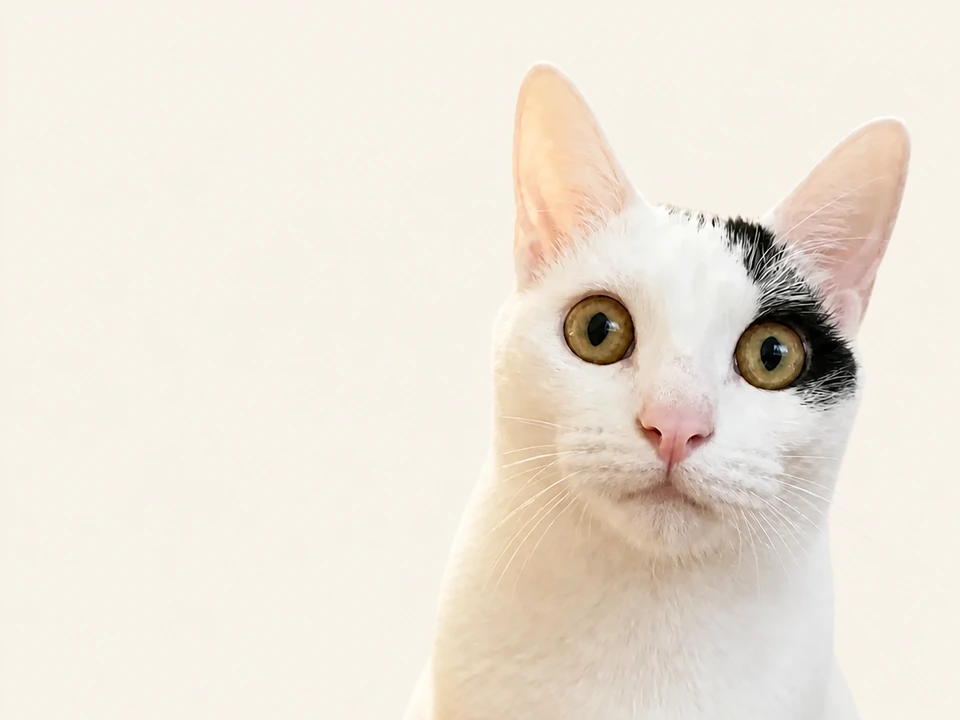
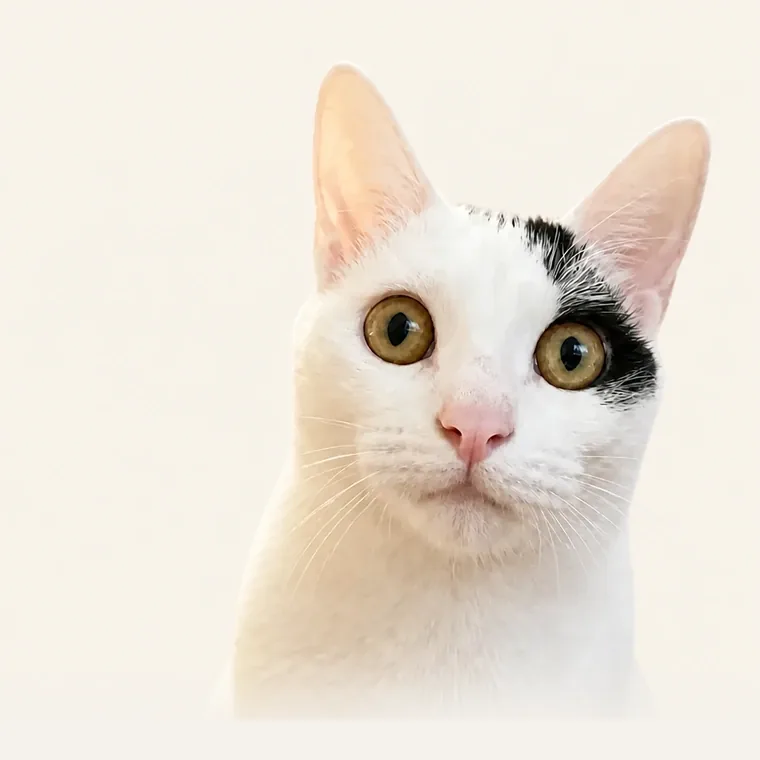
feat: reframe the hero artwork and give the top navigation a current-page state
首屏 77 的构图和顶部导航都调了。

取景（hero 素材重做）：
- 原素材是 960x720，猫只占右侧 45%，左侧全是背景；放进只占半屏的视觉列后，
  中间出现一大片死区，右耳还被素材边界硬切一刀
- 改为 760x760 近方形构图：猫头占画面 62%、头顶留白 66px、身体用 smoothstep
  淡出到暖色背景（不再被硬切在底边）。配合契约里既有的 object-fit: contain，
  正方形正好铺满视觉列（1280 宽时 640x640），死区和硬切同时消失
- 原素材备份在 work/asset-backup/（已被 gitignore），非破坏性更改

文字与按钮层次：
- 主按钮从「细下划线文字链」改成实心橙色胶囊 + 箭头 + 悬停抬起，
  沿用 .button.primary 的对比度口径（#171717 文字）
- 说明文字放宽到 37ch、行距 1.75，不再挤成「…都欢迎加入。」这种孤字换行

顶部导航：
- 5 个纯文字按钮改成胶囊，补 hover 底色与「当前页」选中态
  （原来完全看不出自己在哪一页，底部导航有选中态、顶部却没有）
- 顶部与底部导航共用同一份 state.view 选中态同步

契约：新增 3 条断言守护这些决策——桌面 hero 素材必须是近方形、猫头占比 45%~80%、
头顶留白 >20px、底部淡出 >20px；顶部导航必须有 hover/active 且与底部共用同步；
主按钮最后一条级联规则必须是实心品牌底 + 999px 圆角。

验证：全量回归 294 passed（唯一失败是基线里那个 alembic 旧测试）；
768/1024/1280/1440 四档宽度页面宽度等于视口、真实越界元素 0。

Changed region(s): [[0.3026, 0.0917, 0.9684, 1.0], [0.8171, 0.9472, 0.8776, 1.0]]

diff --git a/app/rescue/styles.css b/app/rescue/styles.css
@@ -960,3 +960,53 @@ button, a, label, select, .nav-item, .quick-action, .primary-action,
   .streak-card { grid-template-columns: 1fr; }
   .streak-main { padding-right: 0; padding-bottom: 14px; border-right: 0; border-bottom: 1px solid var(--line); }
 }
+
+/* ==========================================================================
+   顶部导航与首屏文案层次
+   ========================================================================== */
+
+/* 顶部导航：纯文字按钮改成胶囊，补悬停与「当前页」选中态 */
+.desktop-nav { gap: clamp(6px, 1vw, 12px); }
+.desktop-nav button {
+  min-height: 42px;
+  padding: 0 16px;
+  border: 0;
+  border-radius: 999px;
+  background: transparent;
+  color: var(--ink-2);
+  font-family: inherit;
+  font-size: 13.5px;
+  font-weight: 600;
+  cursor: pointer;
+  transition: background-color .16s ease, color .16s ease;
+}
+.desktop-nav button:hover { background: var(--surface-soft); color: var(--ink); }
+.desktop-nav button.active { background: var(--brand-soft); color: var(--brand-dark); }
+.desktop-nav button:focus-visible { outline: 3px solid var(--focus); outline-offset: 2px; }
+
+/* 首屏文案：说明文字加宽、行距放松，别挤成三行半 */
+.product-lede { max-width: 37ch; margin-top: 16px; color: var(--ink-2); font-size: 15px; line-height: 1.75; }
+.product-region { margin-top: 18px; }
+
+/* 主按钮：原来是细下划线文字链，强化为实心胶囊（沿用 .button.primary 的对比度口径） */
+.editorial-story-link {
+  display: inline-flex;
+  align-items: center;
+  gap: 10px;
+  min-height: 48px;
+  padding: 0 24px;
+  border: 0;
+  border-radius: 999px;
+  background: var(--brand);
+  color: #171717;
+  font-family: inherit;
+  font-size: 15px;
+  font-weight: 700;
+  cursor: pointer;
+  box-shadow: 0 12px 26px rgba(217, 104, 58, .26);
+  transition: transform .16s ease, box-shadow .16s ease, background-color .16s ease, color .16s ease;
+}
+.editorial-story-link::after { content: "→"; font-size: 15px; }
+.editorial-story-link:hover { background: var(--brand-dark); color: #fff; transform: translateY(-2px); box-shadow: 0 16px 34px rgba(217, 104, 58, .34); }
+.editorial-story-link:focus-visible { outline: 3px solid var(--focus); outline-offset: 3px; }
+.editorial-hero-actions { margin-top: clamp(22px, 3vw, 34px); }

diff --git a/app/rescue/app.js b/app/rescue/app.js
@@ -1100,7 +1100,8 @@
       view.classList.toggle("active", active);
       view.hidden = !active;
     });
-    document.querySelectorAll(".nav-item").forEach(function (button) {
+    // 底部导航与顶部导航共用同一份选中态
+    document.querySelectorAll(".nav-item, .desktop-nav button").forEach(function (button) {
       button.classList.toggle("active", button.dataset.nav === state.view);
     });
     var storyActive = state.view === "story-77";

diff --git a/tests/test_rescue_h5_contract.py b/tests/test_rescue_h5_contract.py
@@ -160,6 +160,25 @@ class RescueH5ContractTests(unittest.TestCase):
         self.assertIn("height: 100%", image_rule.group("body"))
         self.assertRegex(image_rule.group("body"), r"object-position:\s*right\s+bottom")
 
+    def test_desktop_hero_is_square_composed_with_headroom(self):
+        """桌面 hero 素材必须是近方形构图：猫头占画面 45%~75%、头顶留白、
+        身体淡出而不是被硬切在底边。这三条是踩过坑之后的取景基线。"""
+        from PIL import ImageChops
+
+        image = Image.open(ROOT / "app" / "rescue" / "assets" / "77" / "hero-desktop.webp").convert("RGB")
+        ratio = image.width / image.height
+        self.assertGreater(ratio, 0.9, "桌面 hero 应为近方形构图，否则 contain 会留下大片空档")
+        self.assertLess(ratio, 1.1)
+        diff = ImageChops.difference(image, Image.new("RGB", image.size, (245, 241, 235))).convert("L")
+        bbox = diff.point(lambda value: 255 if value > 18 else 0).getbbox()
+        self.assertIsNotNone(bbox)
+        left, top, right, bottom = bbox
+        share = (right - left) / image.width
+        self.assertGreater(share, 0.45, "猫头不应占满画面（会被 contain 放大到糊）")
+        self.assertLess(share, 0.8, "猫头占比过大，构图会顶到边缘")
+        self.assertGreater(top, 20, "头顶要留出呼吸空间")
+        self.assertGreater(image.height - bottom, 20, "身体应淡出到背景，不能被硬切在底边")
+
     def test_hero_assets_have_warm_edges_without_black_strip_or_hard_seam(self):
         target = (245, 241, 235)
         for name in ("hero-desktop.webp", "hero-mobile.webp"):

diff --git a/tests/test_product_h5_contract.py b/tests/test_product_h5_contract.py
@@ -205,6 +205,25 @@ class ProductH5ContractTests(unittest.TestCase):
         # 排班格在手机上要能横向滚动，且触摸目标不小于 44px
         self.assertIn("min-height: 44px", styles)
 
+    def test_top_navigation_shows_the_current_section(self):
+        html, script, styles = self.h5(), self.script(), self.styles()
+        self.assertIn('class="desktop-nav"', html)
+        self.assertIn(".desktop-nav button:hover", styles)
+        self.assertIn(".desktop-nav button.active", styles)
+        # 顶部导航与底部导航共用同一份选中态
+        self.assertIn(".nav-item, .desktop-nav button", script)
+        self.assertIn("button.dataset.nav === state.view", script)
+
+    def test_hero_primary_action_is_a_filled_button(self):
+        import re
+
+        styles = self.styles()
+        rules = re.findall(r"\.editorial-story-link\s*\{(?P<body>[^}]*)\}", styles)
+        self.assertTrue(rules, "缺少 .editorial-story-link 规则")
+        # 取最后一条：级联里后写的生效
+        self.assertIn("background: var(--brand)", rules[-1])
+        self.assertIn("border-radius: 999px", rules[-1])
+
     def test_no_leftover_browser_probe_files(self):
         leftovers = sorted(p.name for p in (ROOT / "app" / "rescue").iterdir() if p.name.startswith("__"))
         self.assertEqual(leftovers, [], "请删除临时探针文件：%s" % leftovers)
